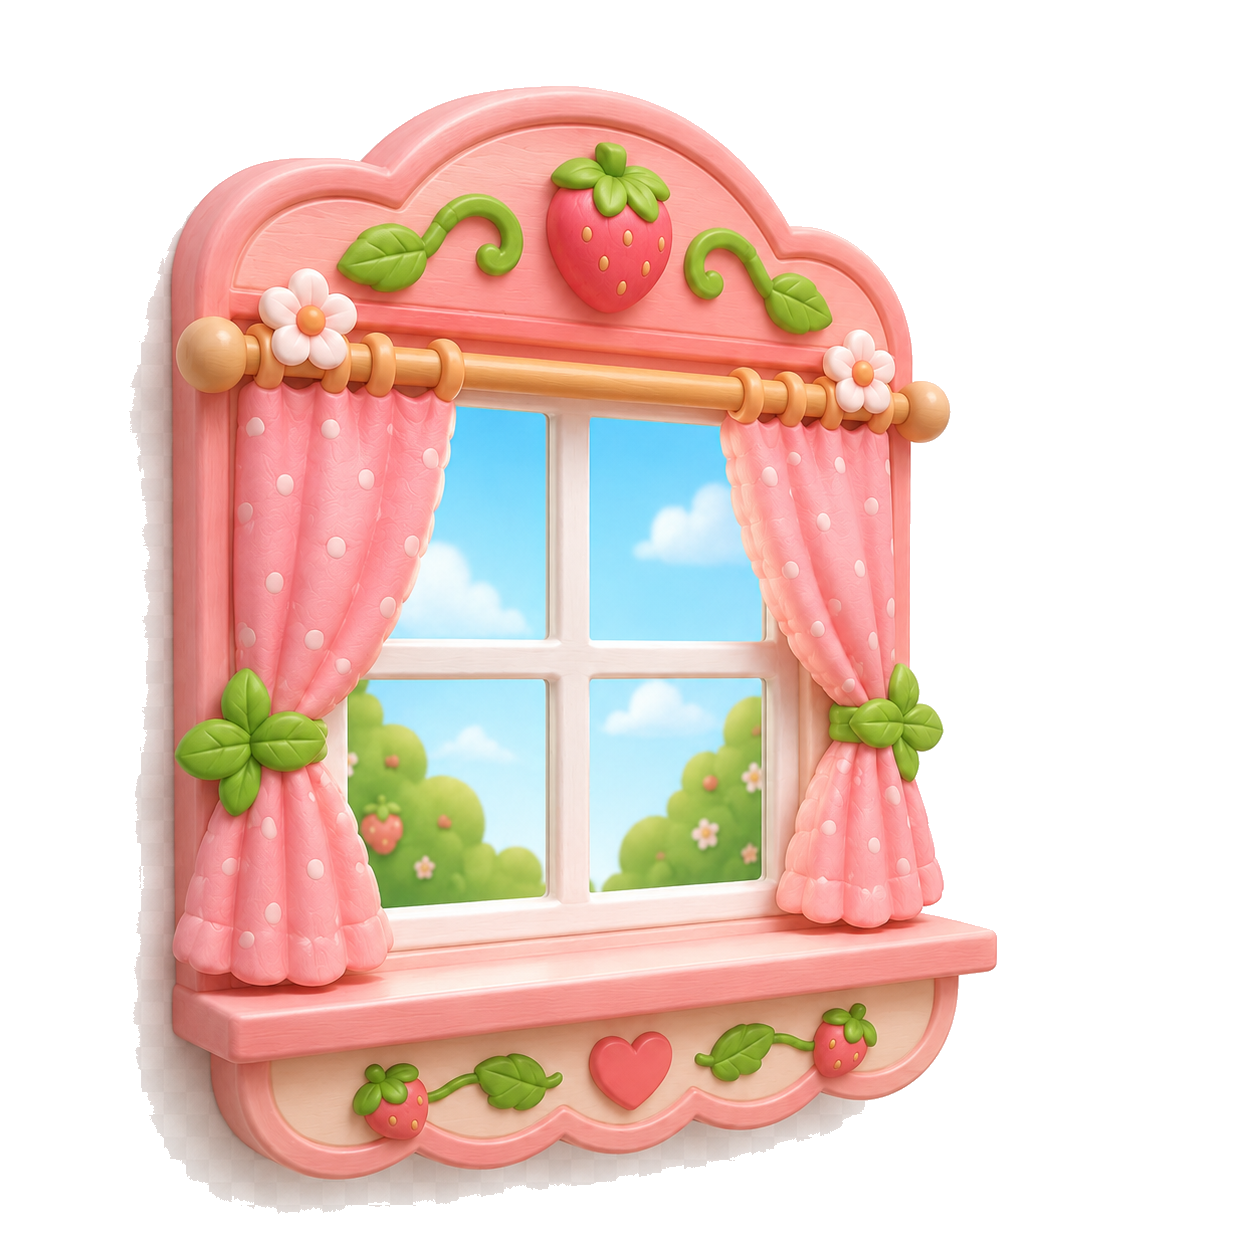
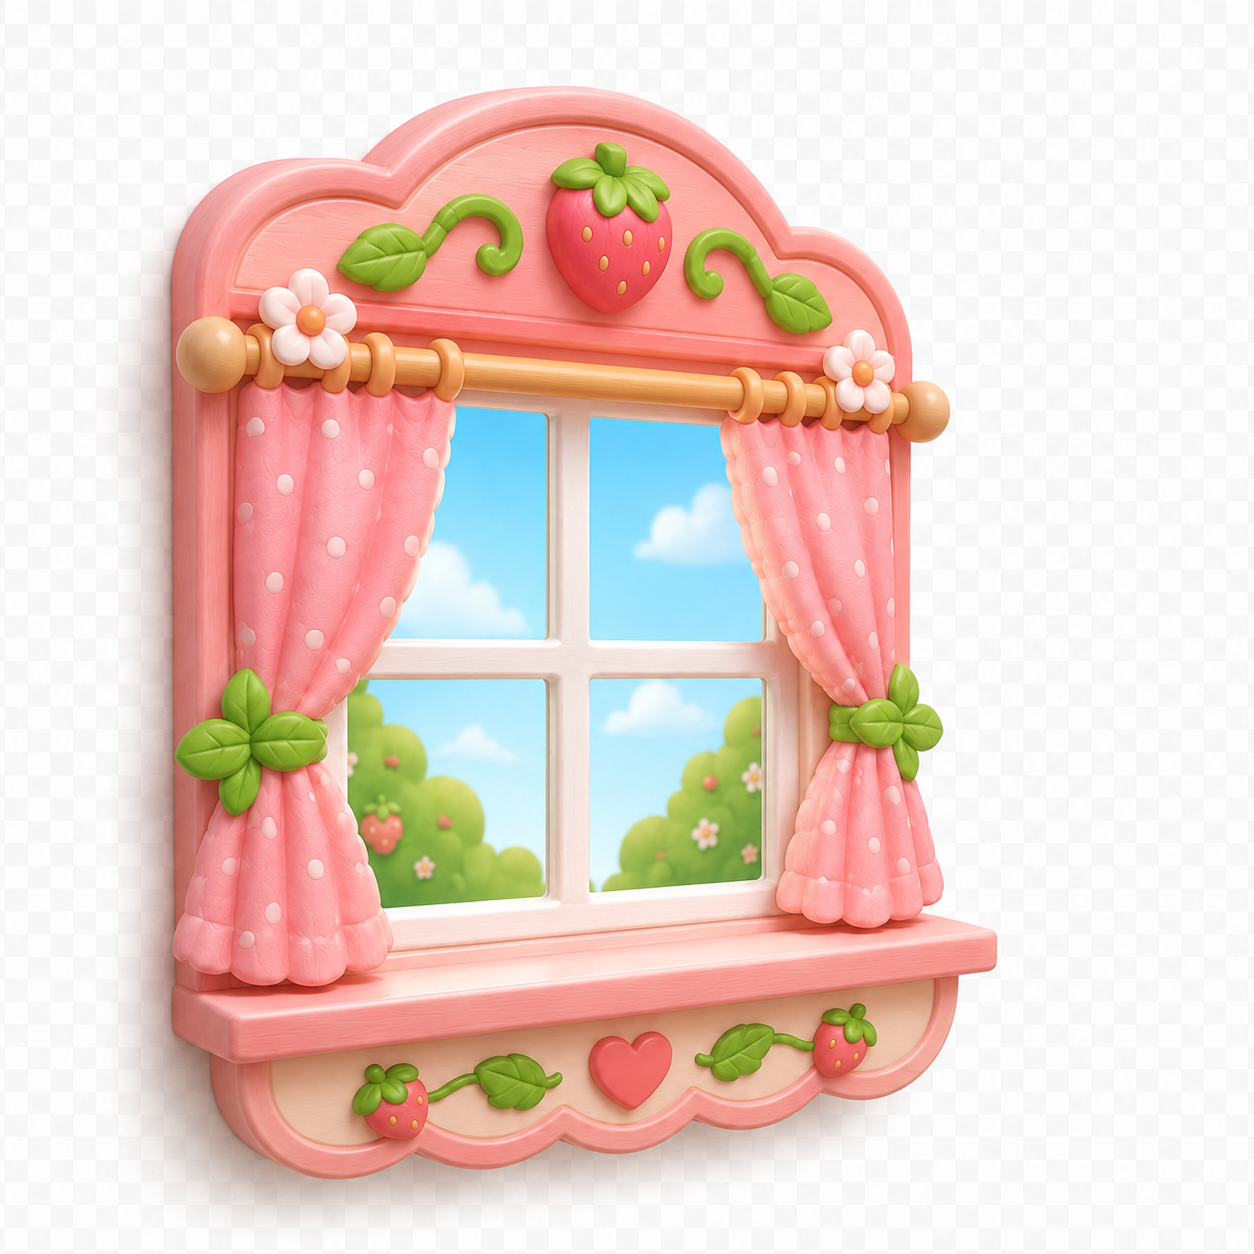
feat(room): window 슬롯 추가 + 창문 4종 시드 + 마이그레이션
- ShopCategory enum에 window 추가, User.equippedWindowId 컬럼 + 관계 추가
- ROOM_SLOTS / ROOM_SLOT_TO_FIELD 에 window 슬롯 추가
- room.service.ts 응답에 equippedWindow 포함
- 마이그레이션 파일 생성 (toy + window 슬롯 통합)
- seed.ts: 창문 4종 (노랑/딸기/파랑/초록) 추가
- 창문 이미지 4장 추가

diff --git a/prisma/seed.ts b/prisma/seed.ts
@@ -244,6 +244,24 @@ async function main() {
     console.log(`  yellow furniture already exists, skipping.`);
   }
 
+  // 창문 (4개 — 노랑/딸기/파랑/초록)
+  const windowCount = await prisma.shopItem.count({
+    where: { category: 'window' },
+  });
+  if (windowCount === 0) {
+    await prisma.shopItem.createMany({
+      data: [
+        { name: '노랑 창문', category: 'window', price: 480, imageUrl: '/static/furniture/window_yellow.jpeg', description: '햇살 가득한 노랑 창문', unlockStage: 1 },
+        { name: '딸기 창문', category: 'window', price: 500, imageUrl: '/static/furniture/window_strawberry.png', description: '귀여운 딸기 장식 창문', unlockStage: 1 },
+        { name: '파랑 창문', category: 'window', price: 480, imageUrl: '/static/furniture/window_blue.jpeg', description: '달빛 별빛 파랑 창문', unlockStage: 1 },
+        { name: '초록 창문', category: 'window', price: 490, imageUrl: '/static/furniture/window_green.png', description: '싱그러운 초록 창문', unlockStage: 1 },
+      ],
+    });
+    console.log(`  4 window shop items seeded.`);
+  } else {
+    console.log(`  window already exists, skipping.`);
+  }
+
   // 5. Seed Diagnostic Problems (PID 10001~)
   console.log('Seeding diagnostic problems...');
   const diagnostics = parseCsv(path.join(seedDataDir, 'diagnostic.csv'));

diff --git a/src/common/constants/room.ts b/src/common/constants/room.ts
@@ -7,6 +7,7 @@ export const ROOM_SLOTS = [
   'rug',
   'wallpaper',
   'toy',
+  'window',
 ] as const;
 
 export type RoomSlot = (typeof ROOM_SLOTS)[number];
@@ -21,6 +22,7 @@ export const ROOM_SLOT_TO_FIELD: Record<
   | 'equippedRugId'
   | 'equippedWallpaperId'
   | 'equippedToyId'
+  | 'equippedWindowId'
 > = {
   desk: 'equippedDeskId',
   shelf: 'equippedShelfId',
@@ -30,6 +32,7 @@ export const ROOM_SLOT_TO_FIELD: Record<
   rug: 'equippedRugId',
   wallpaper: 'equippedWallpaperId',
   toy: 'equippedToyId',
+  window: 'equippedWindowId',
 };
 
 export function isRoomSlot(value: string): value is RoomSlot {

diff --git a/src/room/room.service.ts b/src/room/room.service.ts
@@ -19,6 +19,7 @@ const ROOM_STATE_SELECT = {
   equippedRug: { select: SHOP_ITEM_PUBLIC_SELECT },
   equippedWallpaper: { select: SHOP_ITEM_PUBLIC_SELECT },
   equippedToy: { select: SHOP_ITEM_PUBLIC_SELECT },
+  equippedWindow: { select: SHOP_ITEM_PUBLIC_SELECT },
   roomLayout: true,
 } as const satisfies Prisma.UserSelect;
 
@@ -35,6 +36,7 @@ function toRoomStateResponse(row: RoomStateRow) {
       rug: row.equippedRug,
       wallpaper: row.equippedWallpaper,
       toy: row.equippedToy,
+      window: row.equippedWindow,
     },
     layout: row.roomLayout ?? null,
   };